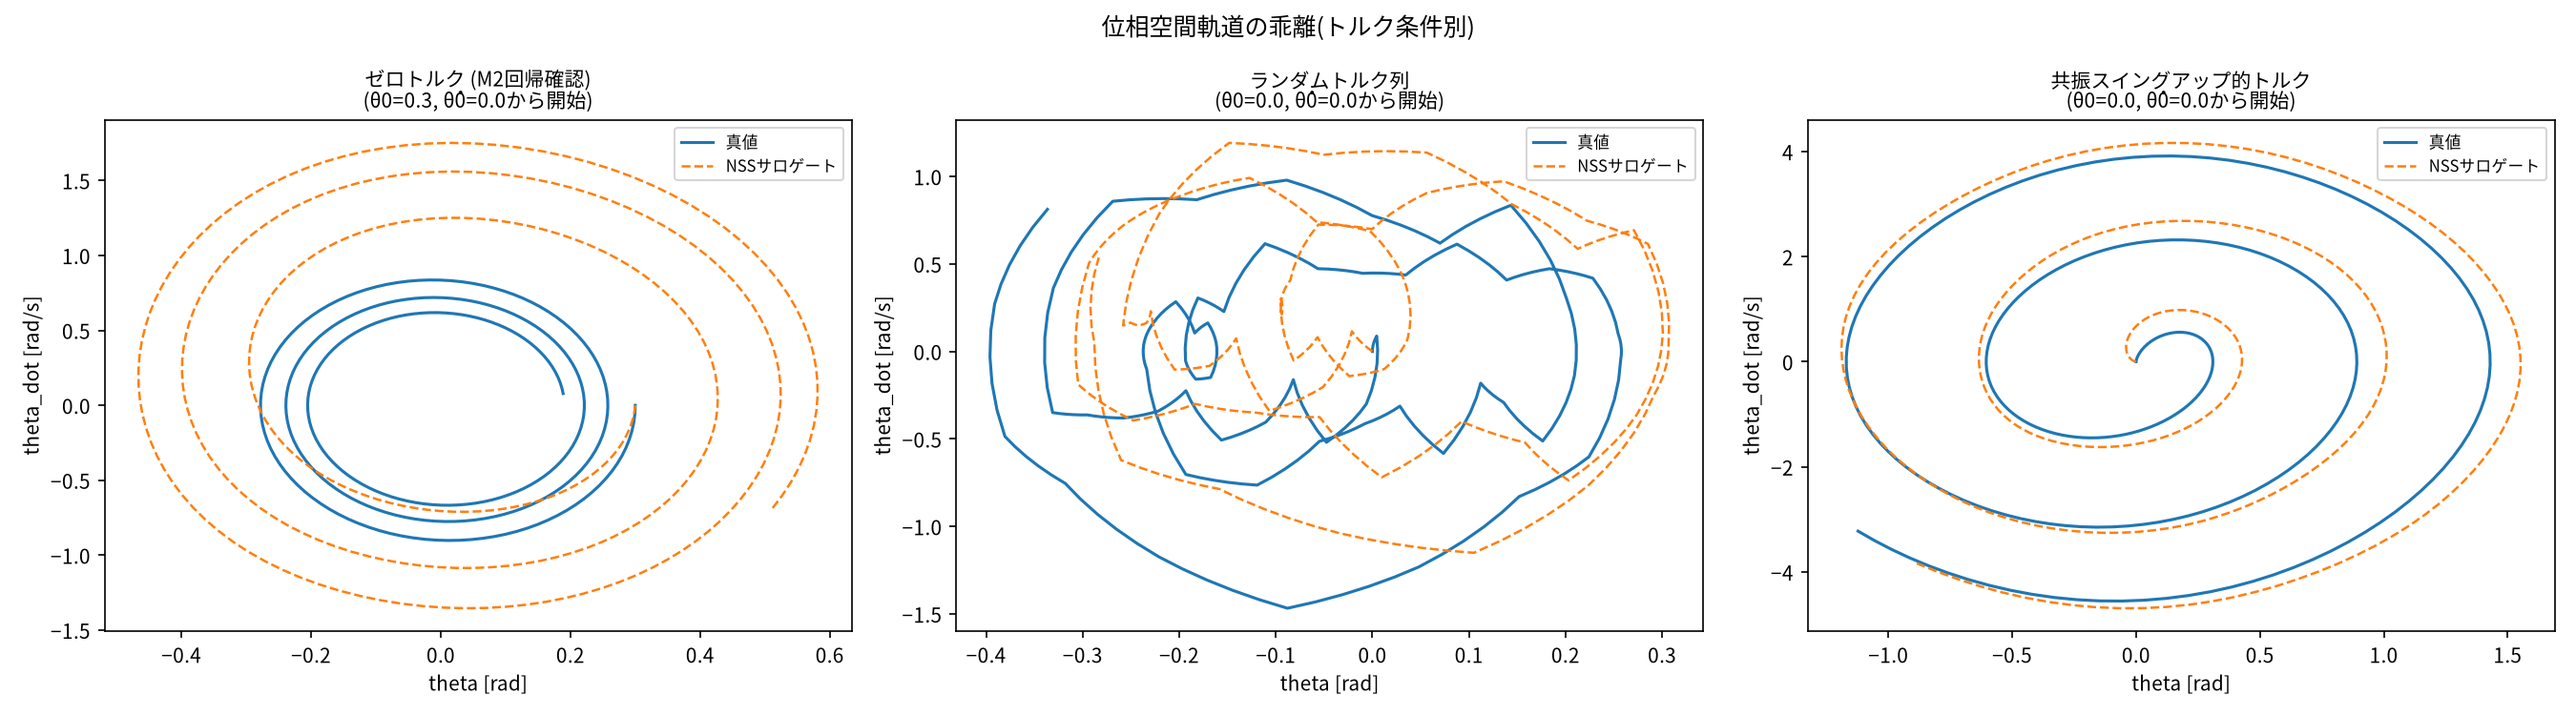
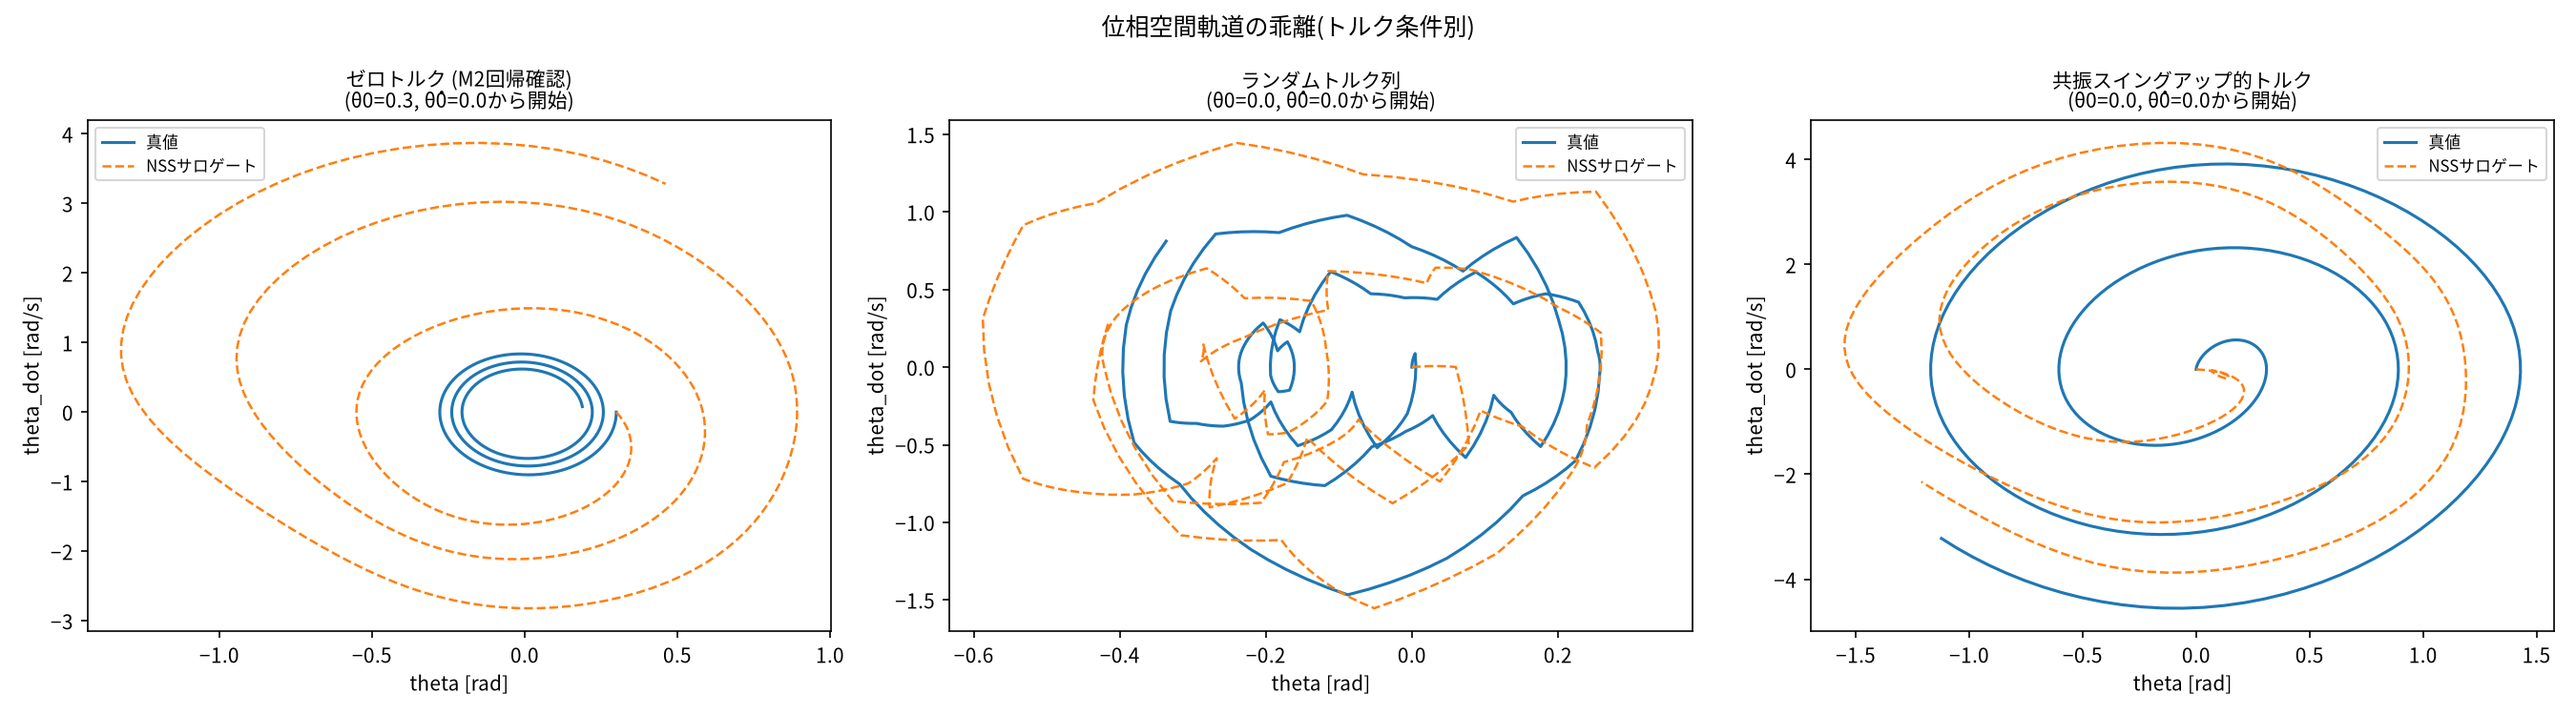
M7: マルチステップ(ロールアウト)損失によるロールアウト誤差削減 (#16)
* M7: マルチステップ(ロールアウト)損失によるロールアウト誤差削減

model.rollout_diff(勾配ありロールアウト)、dataset.make_rollout_windows
(Kステップ学習ウィンドウ生成)を追加。train.pyの損失を1-step MSEから
マルチステップ(K=30)ロールアウトMSEに切り替え。

いきなりK=30から学習すると勾配が不安定になり1-step版より悪化することが
実験で判明したため、K=1→3→5→10→20→30と段階的に伸ばすカリキュラム学習を
採用(勾配クリッピング込み)。

M3の3条件評価(zero/random/resonant torque)でBefore/After比較した結果:
ゼロトルク 3.83→3.43、共振トルク 3.52→3.39 と改善した一方、ランダム
トルクは 3.64→4.92 と悪化。エネルギー逸脱の系統バイアスの向き(M3では
不足気味だった減衰がM7では条件によって過剰/不足が入れ替わる)も一定でなく、
マルチステップ損失は万能ではないことが分かった。

Refs #15

Claude-Session: https://claude.ai/code/session_01Rvrf6mcbh1UrexApn66z2b

* fix: 学習ホライズン境界線をM7の実際の値(K_MAX)に修正、θ(t)時系列プロットを追加

evaluate.pyの「学習ホライズン境界」線がM3時点の1-step学習系列長
(50ステップ=1秒)のまま残っていたが、M7のtrain.pyが実際に使う
ロールアウトホライズン(K_MAX=30ステップ=0.6秒)を参照するよう修正。

条件ごとの代表IC角度θ(t)の時系列比較(theta_trajectory.png)を追加。
既存のphase_portraitと同じ代表ICを使い、サロゲートthetaは
np.unwrapで連続表示する。

Refs #15

Claude-Session: https://claude.ai/code/session_01Rvrf6mcbh1UrexApn66z2b

---------

diff --git a/src/train.py b/src/train.py
@@ -1,9 +1,20 @@
-"""NSSモデルの学習スクリプト(1-step teacher forcing MSE、トルク入力あり)。"""
+"""NSSモデルの学習スクリプト。
+
+M1-M6は1-step教師強制MSEのみで学習していたが、実際の利用(ロールアウト評価・
+MPC・PID)は自己回帰的な多段階予測であり、1-step誤差が学習時に見えない形で
+蓄積することが繰り返し観察された。M7ではKステップ分自己回帰展開してから
+損失を取る「マルチステップ(ロールアウト)損失」に切り替える。
+
+Kをいきなり大きくして最初から学習すると(from-scratch)、勾配が不安定になり
+1-step版より悪化することが実験で判明した。そのため K=1 から徐々に増やす
+カリキュラム学習を採用する(K=1で1-step相当の学習を先に安定させてから、
+段階的にロールアウトホライズンを伸ばして微調整する)。
+"""
 import numpy as np
 import torch
 import torch.nn as nn
 
-from src.dataset import generate_controlled_trajectories, make_transition_pairs_with_control
+from src.dataset import generate_controlled_trajectories, make_rollout_windows
 from src.model import NSSModel, encode_state
 
 DT = 0.02
@@ -11,10 +22,17 @@ N_STEPS_PER_TRAJ = 50
 N_TRAIN_TRAJ = 600
 N_VAL_TRAJ = 80
 SEED = 0
-N_EPOCHS = 200
 BATCH_SIZE = 512
 LR = 1e-3
+GRAD_CLIP_NORM = 1.0
 DAMPING = 0.15  # M2: 減衰項を追加(M1は0.0)
+
+K_MAX = 30  # 学習時の最終ロールアウトホライズン(0.6秒)
+WINDOW_STRIDE = 2
+
+# M7: カリキュラム学習のスケジュール (k, そのkでのエポック数)。
+# K=1で1-step相当の学習を先に安定させてから段階的にKを伸ばす。
+CURRICULUM = [(1, 40), (3, 30), (5, 30), (10, 30), (20, 30), (K_MAX, 40)]
 
 
 def train(device: str = "cpu") -> NSSModel:
@@ -25,46 +43,58 @@ def train(device: str = "cpu") -> NSSModel:
         N_VAL_TRAJ, DT, N_STEPS_PER_TRAJ, seed=SEED + 1, c=DAMPING
     )
 
-    x_train, u_train, x_next_train = make_transition_pairs_with_control(train_traj, train_tau)
-    x_val, u_val, x_next_val = make_transition_pairs_with_control(val_traj, val_tau)
+    x0_train, u_train, targets_train = make_rollout_windows(
+        train_traj, train_tau, K_MAX, stride=WINDOW_STRIDE
+    )
+    x0_val, u_val, targets_val = make_rollout_windows(
+        val_traj, val_tau, K_MAX, stride=WINDOW_STRIDE
+    )
 
-    x_train_t = torch.as_tensor(x_train, dtype=torch.float32, device=device)
+    x0_train_t = torch.as_tensor(x0_train, dtype=torch.float32, device=device)
     u_train_t = torch.as_tensor(u_train, dtype=torch.float32, device=device)
-    x_next_train_t = torch.as_tensor(x_next_train, dtype=torch.float32, device=device)
-    x_val_t = torch.as_tensor(x_val, dtype=torch.float32, device=device)
-    u_val_t = torch.as_tensor(u_val, dtype=torch.float32, device=device)
-    x_next_val_t = torch.as_tensor(x_next_val, dtype=torch.float32, device=device)
+    target_enc_train = encode_state(
+        torch.as_tensor(targets_train, dtype=torch.float32, device=device)
+    )
 
-    target_train = encode_state(x_next_train_t)
-    target_val = encode_state(x_next_val_t)
+    x0_val_t = torch.as_tensor(x0_val, dtype=torch.float32, device=device)
+    u_val_t = torch.as_tensor(u_val, dtype=torch.float32, device=device)
+    target_enc_val = encode_state(
+        torch.as_tensor(targets_val, dtype=torch.float32, device=device)
+    )
 
     model = NSSModel().to(device)
     optimizer = torch.optim.Adam(model.parameters(), lr=LR)
     loss_fn = nn.MSELoss()
 
-    n_samples = x_train_t.shape[0]
+    n_samples = x0_train_t.shape[0]
+    global_epoch = 0
 
-    for epoch in range(N_EPOCHS):
-        perm = torch.randperm(n_samples)
-        epoch_loss = 0.0
-        for i in range(0, n_samples, BATCH_SIZE):
-            idx = perm[i : i + BATCH_SIZE]
-            pred = model(x_train_t[idx], u_train_t[idx])
-            loss = loss_fn(pred, target_train[idx])
+    for k, n_epochs in CURRICULUM:
+        for local_epoch in range(n_epochs):
+            perm = torch.randperm(n_samples)
+            epoch_loss = 0.0
+            for i in range(0, n_samples, BATCH_SIZE):
+                idx = perm[i : i + BATCH_SIZE]
+                pred_traj = model.rollout_diff(x0_train_t[idx], u_train_t[:k, idx], k)
+                pred_enc = encode_state(pred_traj[1:])
+                loss = loss_fn(pred_enc, target_enc_train[:k, idx, :])
 
-            optimizer.zero_grad()
-            loss.backward()
-            optimizer.step()
-            epoch_loss += loss.item() * idx.shape[0]
+                optimizer.zero_grad()
+                loss.backward()
+                nn.utils.clip_grad_norm_(model.parameters(), GRAD_CLIP_NORM)
+                optimizer.step()
+                epoch_loss += loss.item() * idx.shape[0]
 
-        if epoch % 20 == 0 or epoch == N_EPOCHS - 1:
-            with torch.no_grad():
-                val_pred = model(x_val_t, u_val_t)
-                val_loss = loss_fn(val_pred, target_val).item()
-            print(
-                f"epoch {epoch:4d} train_loss={epoch_loss / n_samples:.6f} "
-                f"val_loss={val_loss:.6f}"
-            )
+            global_epoch += 1
+            if local_epoch % 10 == 0 or local_epoch == n_epochs - 1:
+                with torch.no_grad():
+                    val_pred_traj = model.rollout_diff(x0_val_t, u_val_t[:k], k)
+                    val_pred_enc = encode_state(val_pred_traj[1:])
+                    val_loss = loss_fn(val_pred_enc, target_enc_val[:k]).item()
+                print(
+                    f"k={k:2d} epoch {global_epoch:4d} "
+                    f"train_loss={epoch_loss / n_samples:.6f} val_loss={val_loss:.6f}"
+                )
 
     return model
 

diff --git a/src/evaluate.py b/src/evaluate.py
@@ -6,6 +6,7 @@
 1. rollout_error_curve.png : 条件ごとのhorizonに対するRMSE蓄積カーブ
 2. energy_deviation.png    : 条件ごとのエネルギー逸脱(真値 vs サロゲート)
 3. phase_portrait.png      : 条件ごとの代表IC位相空間軌道比較(スイングアップの再現度を含む)
+4. theta_trajectory.png    : 条件ごとの代表IC角度θ(t)の時系列比較
 """
 import matplotlib
 
@@ -20,9 +21,10 @@ from src.dataset import sample_initial_states, sample_torque_sequence
 from src.model import NSSModel
 from src.physics import G, L, energy
 from src.rollout import rmse_curve, true_rollout
+from src.train import K_MAX as TRAIN_ROLLOUT_STEPS
 
 DT = 0.02
-N_STEPS_EVAL = 300  # 6秒分。学習時ホライズン(50ステップ=1秒)より大幅に長い
+N_STEPS_EVAL = 300  # 6秒分。学習時ロールアウトホライズン(M7時点でK_MAX=30ステップ=0.6秒)より大幅に長い
 N_TEST_TRAJ = 200
 SEED_TEST = 1000
 DAMPING = 0.15  # train.py と揃える(M2)
@@ -67,7 +69,7 @@ def plot_error_curve(model: NSSModel, conditions: dict[str, np.ndarray]) -> dict
         curves[label] = curve
         plt.plot(t, curve, label=label)
 
-    plt.axvline(50 * DT, color="gray", linestyle="--", label="学習ホライズン境界")
+    plt.axvline(TRAIN_ROLLOUT_STEPS * DT, color="gray", linestyle="--", label="学習ホライズン境界")
     plt.xlabel("time [s]")
     plt.ylabel("RMSE (theta[rad], theta_dot[rad/s] 合成)")
     plt.title(f"ロールアウト誤差蓄積カーブ (n={N_TEST_TRAJ} test trajectories)")
@@ -95,7 +97,7 @@ def plot_energy_deviation(model: NSSModel, conditions: dict[str, np.ndarray]) ->
 
         ax.plot(t, e_true, label="真値")
         ax.plot(t, e_pred, label="NSSサロゲート")
-        ax.axvline(50 * DT, color="gray", linestyle="--", label="学習ホライズン境界")
+        ax.axvline(TRAIN_ROLLOUT_STEPS * DT, color="gray", linestyle="--", label="学習ホライズン境界")
         ax.set_xlabel("time [s]")
         ax.set_ylabel("平均力学的エネルギー [J]")
         ax.set_title(label, fontsize=10)
@@ -106,6 +108,35 @@ def plot_energy_deviation(model: NSSModel, conditions: dict[str, np.ndarray]) ->
     plt.savefig(f"{OUT_DIR}/energy_deviation.png", dpi=150)
     plt.close()
     print(f"saved {OUT_DIR}/energy_deviation.png")
+
+
+def plot_theta_trajectory(model: NSSModel, conditions: dict[str, np.ndarray]) -> None:
+    # phase_portraitと同じ代表IC(ゼロトルクのみ非自明なICを使う理由も同じ)。
+    default_ic = np.array([0.0, 0.0])
+    ic_overrides = {"ゼロトルク (M2回帰確認)": np.array([0.3, 0.0])}
+    t = np.arange(N_STEPS_EVAL + 1) * DT
+
+    fig, axes = plt.subplots(1, len(conditions), figsize=(6 * len(conditions), 4.5))
+    for ax, (label, tau_seq) in zip(axes, conditions.items()):
+        ic = ic_overrides.get(label, default_ic)
+        true_traj = true_rollout(ic[None, :], DT, N_STEPS_EVAL, c=DAMPING, tau_seq=tau_seq)[0]
+        pred_traj = model.rollout(ic[None, :], N_STEPS_EVAL, tau_seq=tau_seq)[:, 0, :]
+        pred_traj_unwrapped = pred_traj.copy()
+        pred_traj_unwrapped[:, 0] = np.unwrap(pred_traj[:, 0])
+
+        ax.plot(t, true_traj[:, 0], label="真値", linewidth=1.5)
+        ax.plot(t, pred_traj_unwrapped[:, 0], label="NSSサロゲート", linewidth=1.2, linestyle="--")
+        ax.axvline(TRAIN_ROLLOUT_STEPS * DT, color="gray", linestyle="--", linewidth=1, label="学習ホライズン境界")
+        ax.set_xlabel("time [s]")
+        ax.set_ylabel("theta [rad]")
+        ax.set_title(f"{label}\n(θ0={ic[0]:.1f}, θ̇0={ic[1]:.1f}から開始)", fontsize=10)
+        ax.legend(fontsize=8)
+
+    fig.suptitle("角度θ(t)の時系列比較(トルク条件別)")
+    plt.tight_layout()
+    plt.savefig(f"{OUT_DIR}/theta_trajectory.png", dpi=150)
+    plt.close()
+    print(f"saved {OUT_DIR}/theta_trajectory.png")
 
 
 def plot_phase_portrait(model: NSSModel, conditions: dict[str, np.ndarray]) -> None:
@@ -146,5 +177,6 @@ if __name__ == "__main__":
     curves = plot_error_curve(m, conds)
     plot_energy_deviation(m, conds)
     plot_phase_portrait(m, conds)
+    plot_theta_trajectory(m, conds)
     for label, curve in curves.items():
         print(f"[{label}] final RMSE at t={N_STEPS_EVAL*DT:.1f}s: {curve[-1]:.4f}")

diff --git a/src/dataset.py b/src/dataset.py
@@ -80,16 +80,6 @@ def generate_trajectories(
     return trajectories
 
 
-def make_transition_pairs(trajectories: np.ndarray) -> tuple[np.ndarray, np.ndarray]:
-    """軌道群から1-step遷移ペア (x_t, x_{t+1}) を作る。
-
-    trajectories: shape (n_traj, n_steps + 1, 2)
-    """
-    x = trajectories[:, :-1, :].reshape(-1, 2)
-    x_next = trajectories[:, 1:, :].reshape(-1, 2)
-    return x, x_next
-
-
 # --- M3: トルク入力を含む制御データセット ---
 
 TAU_RANGE = (-4.0, 4.0)
@@ -132,14 +122,36 @@ def generate_controlled_trajectories(
     return trajectories, tau_seqs
 
 
-def make_transition_pairs_with_control(
-    trajectories: np.ndarray, tau_seqs: np.ndarray
+# --- M7: マルチステップ(ロールアウト)損失用の学習ウィンドウ ---
+
+
+def make_rollout_windows(
+    trajectories: np.ndarray, tau_seqs: np.ndarray, k: int, stride: int = 1
 ) -> tuple[np.ndarray, np.ndarray, np.ndarray]:
-    """軌道群+トルク列から1-step遷移ペア (x_t, u_t, x_{t+1}) を作る。
+    """軌道群+トルク列からKステップの学習ウィンドウ (x0, u_seq, targets) を作る。
+
+    1-step教師強制損失は、実際の自己回帰ロールアウトで生じる誤差の蓄積を
+    学習時に一切見ないというミスマッチがあった(M1-M6で繰り返し観察)。
+    この関数で切り出したウィンドウを使い、学習時にKステップ分自己回帰
+    展開してから損失を取ることでこのミスマッチを解消する。
 
     trajectories: shape (n_traj, n_steps + 1, 2), tau_seqs: shape (n_traj, n_steps)
+
+    Returns:
+        x0:      shape (n_windows, 2)       各ウィンドウの初期状態
+        u_seq:   shape (k, n_windows)       各ウィンドウのKステップ分トルク列
+        targets: shape (k, n_windows, 2)    各ウィンドウのKステップ分正解状態
     """
-    x = trajectories[:, :-1, :].reshape(-1, 2)
-    x_next = trajectories[:, 1:, :].reshape(-1, 2)
-    u = tau_seqs.reshape(-1, 1)
-    return x, u, x_next
+    n_traj, n_steps_plus_1, _ = trajectories.shape
+    n_steps = n_steps_plus_1 - 1
+
+    x0_parts, u_parts, target_parts = [], [], []
+    for start in range(0, n_steps - k + 1, stride):
+        x0_parts.append(trajectories[:, start, :])
+        u_parts.append(tau_seqs[:, start : start + k])
+        target_parts.append(trajectories[:, start + 1 : start + k + 1, :])
+
+    x0 = np.concatenate(x0_parts, axis=0)
+    u_seq = np.concatenate(u_parts, axis=0).T
+    targets = np.concatenate(target_parts, axis=0).transpose(1, 0, 2)
+    return x0, u_seq, targets

diff --git a/src/model.py b/src/model.py
@@ -57,7 +57,7 @@ class NSSModel(nn.Module):
         n_steps: int,
         tau_seq: np.ndarray | None = None,
     ) -> np.ndarray:
-        """numpy initial_state (..., 2) から自己回帰的にn_steps展開する。
+        """numpy initial_state (..., 2) から自己回帰的にn_steps展開する(評価用、勾配なし)。
 
         tau_seq: shape (n_steps,) または (n_steps, ...)。Noneならu=0(無入力)。
 
@@ -76,3 +76,24 @@ class NSSModel(nn.Module):
             state = self.step(state, u)
             traj.append(state)
         return torch.stack(traj, dim=0).cpu().numpy()
+
+    def rollout_diff(self, state: torch.Tensor, tau_seq: torch.Tensor, n_steps: int) -> torch.Tensor:
+        """torch state (..., 2) から勾配を保持したまま自己回帰的にn_steps展開する(学習用)。
+
+        M1-M6の1-step教師強制損失は、実際のロールアウト時に生じる誤差の蓄積を
+        学習時に一切見ないというミスマッチがあった。この関数は評価用rolloutと
+        同じ自己回帰計算を勾配ありで行い、マルチステップ・ロールアウト損失の
+        逆伝播に使う。
+
+        tau_seq: shape (n_steps, ..., 1) または (n_steps, ...)。
+
+        Returns: shape (n_steps + 1, ..., 2) (初期状態を含む)
+        """
+        traj = [state]
+        for t in range(n_steps):
+            u_t = tau_seq[t]
+            target_shape = state.shape[:-1] + (CONTROL_DIM,)
+            u = u_t.reshape(target_shape)
+            state = self.step(state, u)
+            traj.append(state)
+        return torch.stack(traj, dim=0)

diff --git a/tests/test_train.py b/tests/test_train.py
@@ -1,0 +1,32 @@
+import numpy as np
+import torch
+
+from src.dataset import generate_controlled_trajectories, make_rollout_windows
+from src.model import NSSModel
+
+
+def test_make_rollout_windows_shapes():
+    trajectories, tau_seqs = generate_controlled_trajectories(5, dt=0.02, n_steps=20, seed=0)
+    k = 4
+    x0, u_seq, targets = make_rollout_windows(trajectories, tau_seqs, k, stride=2)
+
+    n_starts = (20 - k) // 2 + 1
+    n_windows = n_starts * 5
+    assert x0.shape == (n_windows, 2)
+    assert u_seq.shape == (k, n_windows)
+    assert targets.shape == (k, n_windows, 2)
+
+
+def test_rollout_diff_is_differentiable():
+    """マルチステップ損失で使うrollout_diffが勾配を保持していること。"""
+    model = NSSModel()
+    state = torch.zeros(3, 2, requires_grad=False)
+    tau_seq = torch.zeros(5, 3, requires_grad=True)
+
+    traj = model.rollout_diff(state, tau_seq, n_steps=5)
+    assert traj.shape == (6, 3, 2)
+
+    loss = traj[1:].pow(2).sum()
+    loss.backward()
+    assert tau_seq.grad is not None
+    assert torch.isfinite(tau_seq.grad).all()

diff --git a/README.md b/README.md
@@ -22,17 +22,19 @@ pip install -r requirements.txt
   局所安定化ダイナミクスの一致度を検証する。
 - **M6** (完了, #11): PIDを目標角度可変(重力フィードフォワード込み)に一般化し、
   倒立近傍でのPTP(点対点)制御を真の物理モデル/NSSサロゲートで比較検証する。
+- **M7** (完了, #15): 1-step教師強制損失をマルチステップ(ロールアウト)損失に
+  切り替え、ロールアウト誤差削減の効果を検証する。
 
 ## ディレクトリ構成
 
 ```
 src/
   physics.py         # ODE定義(減衰・トルク項) + RK4シミュレータ
-  dataset.py         # 軌道生成・IC サンプリング・分割・制御データセット生成
-  model.py           # NSS(MLP, sin/cos エンコード, トルク入力対応)
-  train.py           # 学習ループ
+  dataset.py         # 軌道生成・IC サンプリング・分割・制御/ロールアウト窓データセット生成
+  model.py           # NSS(MLP, sin/cos エンコード, トルク入力対応, 微分可能ロールアウト)
+  train.py           # 学習ループ(マルチステップ損失 + カリキュラム学習)
   rollout.py         # 自己回帰ロールアウト + 誤差/エネルギー計算
-  evaluate.py         # 指標集計・プロット生成(M1-M3)
+  evaluate.py         # 指標集計・プロット生成(M1-M3, M7のBefore/After比較にも使用)
   control.py          # ランダムシューティングMPC(スイングアップ制御)
   evaluate_control.py # MPC制御検証・プロット生成(M4)
   pid.py              # PTP対応PIDコントローラ(重力FF, 真値/サロゲート閉ループ両対応)
@@ -42,4 +44,5 @@ tests/
   test_physics.py
   test_control.py
   test_pid.py
+  test_train.py
 ```
